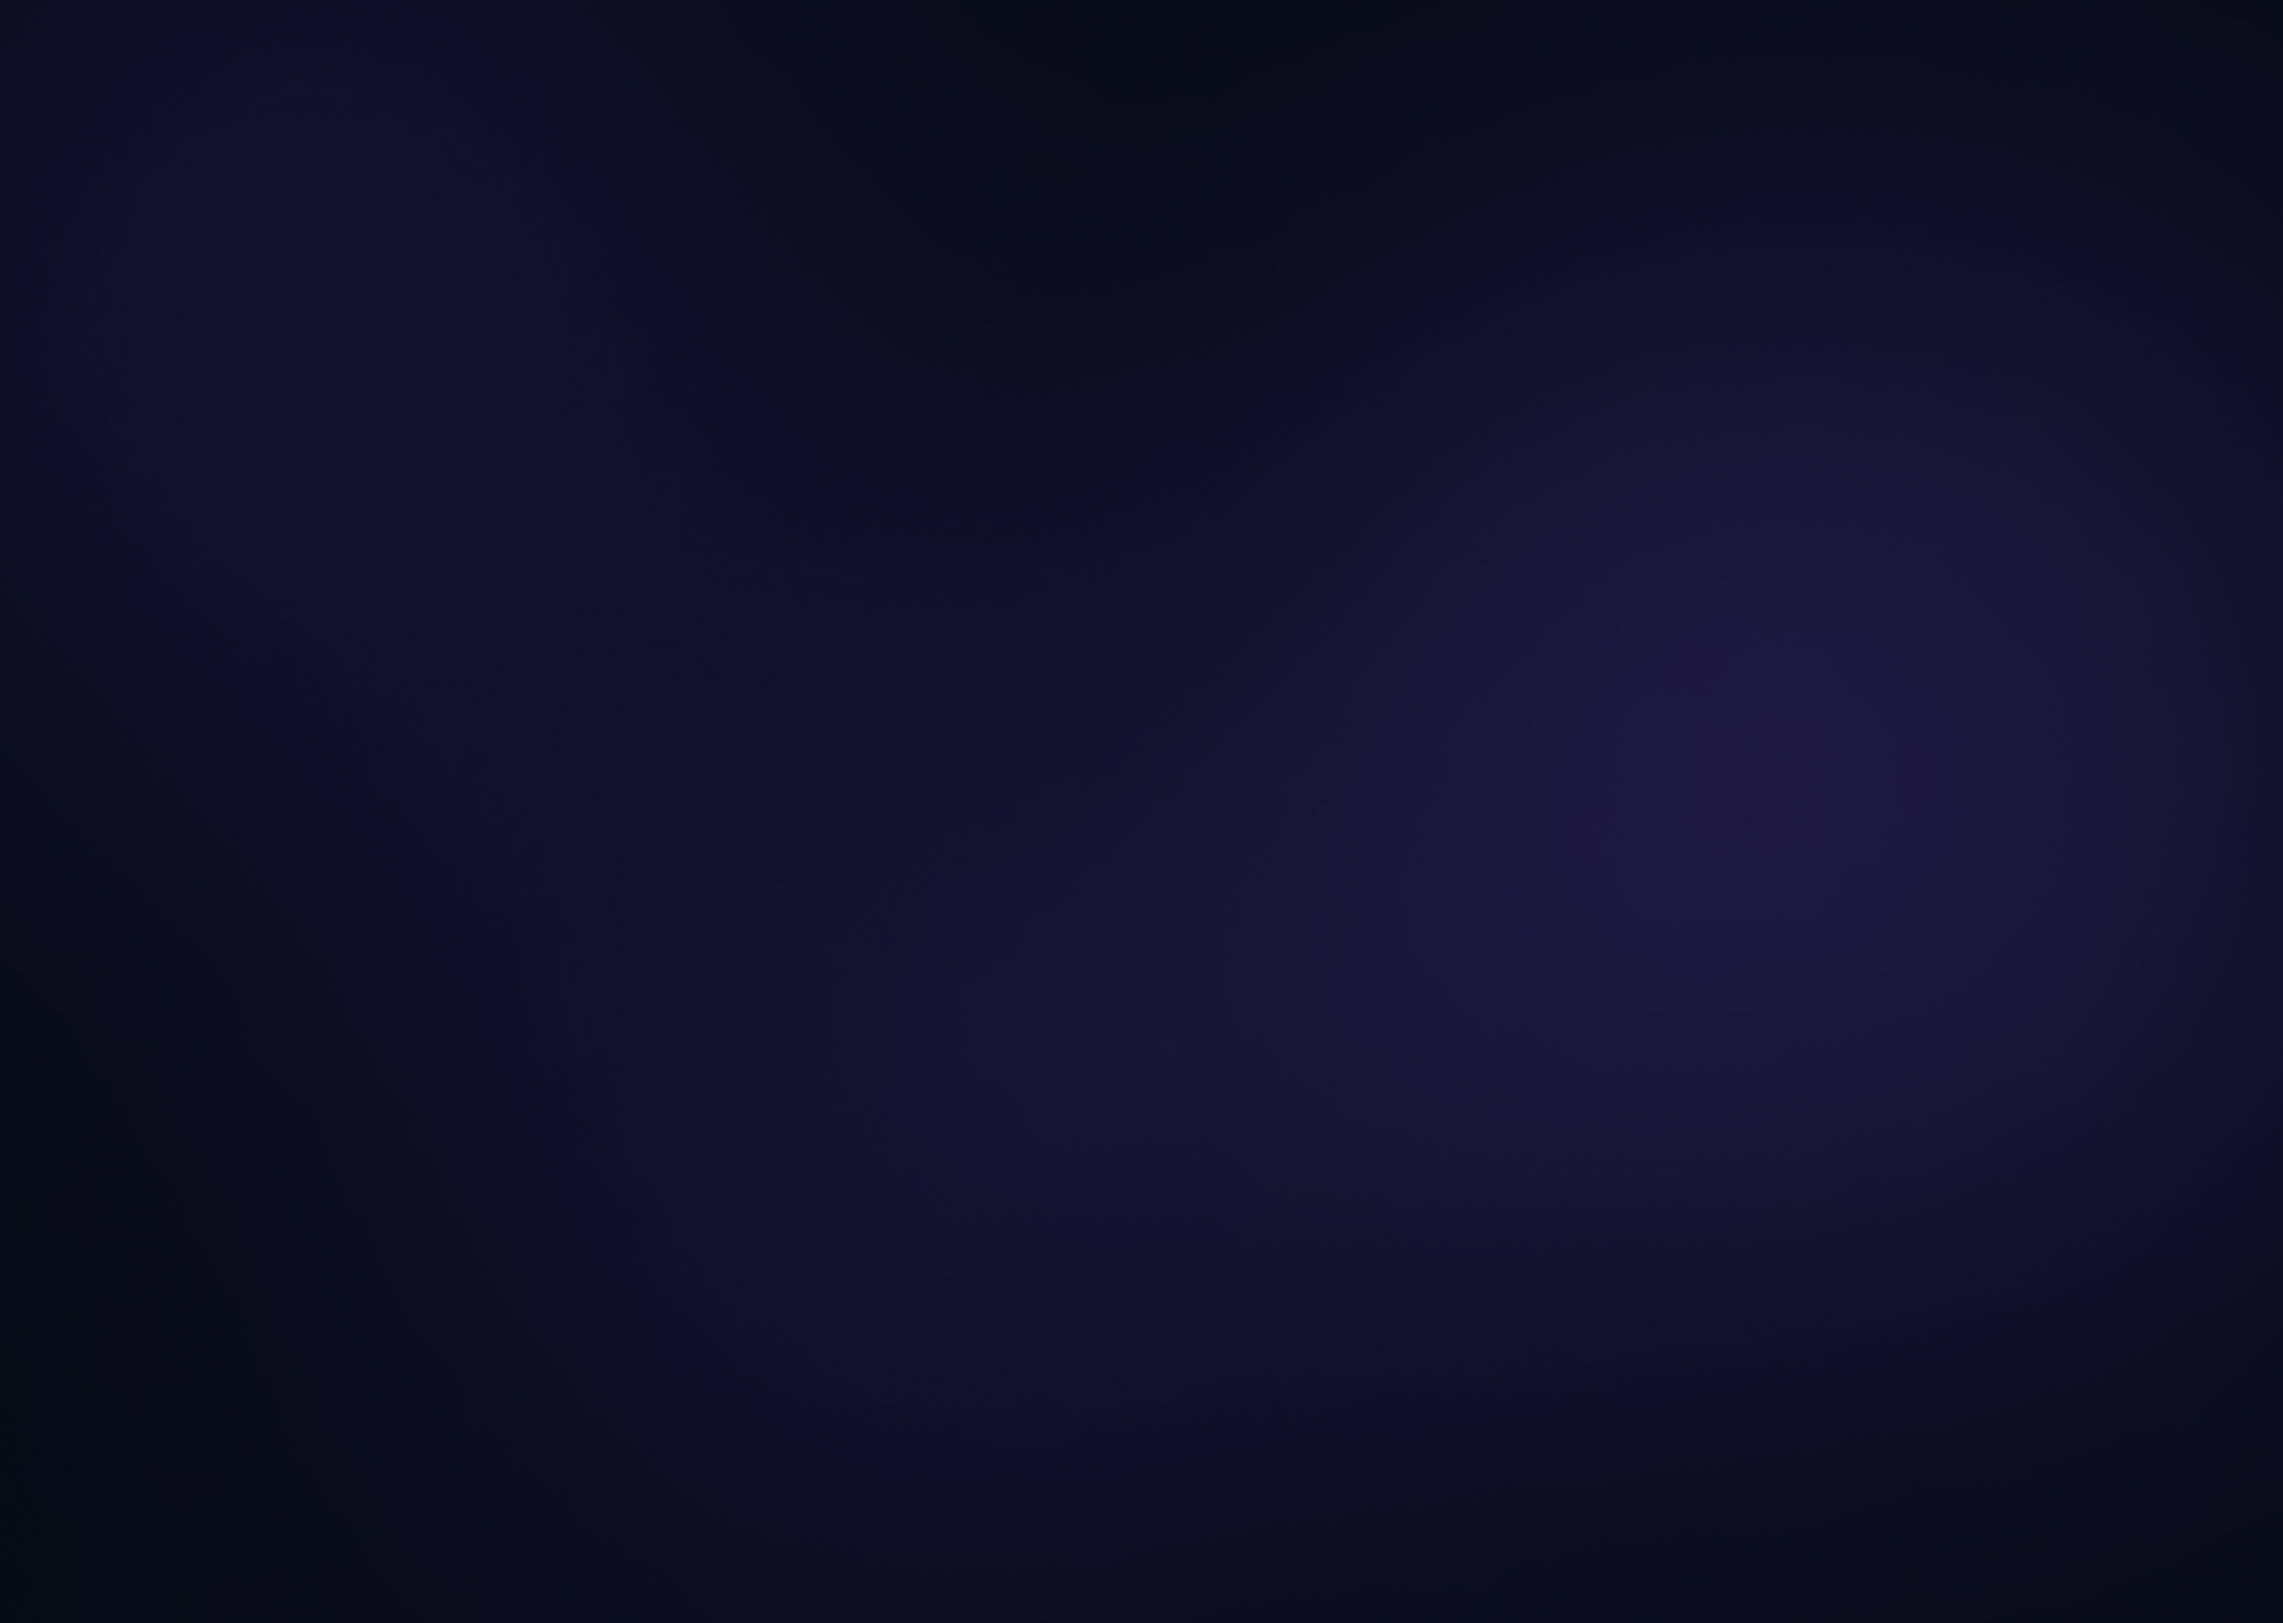
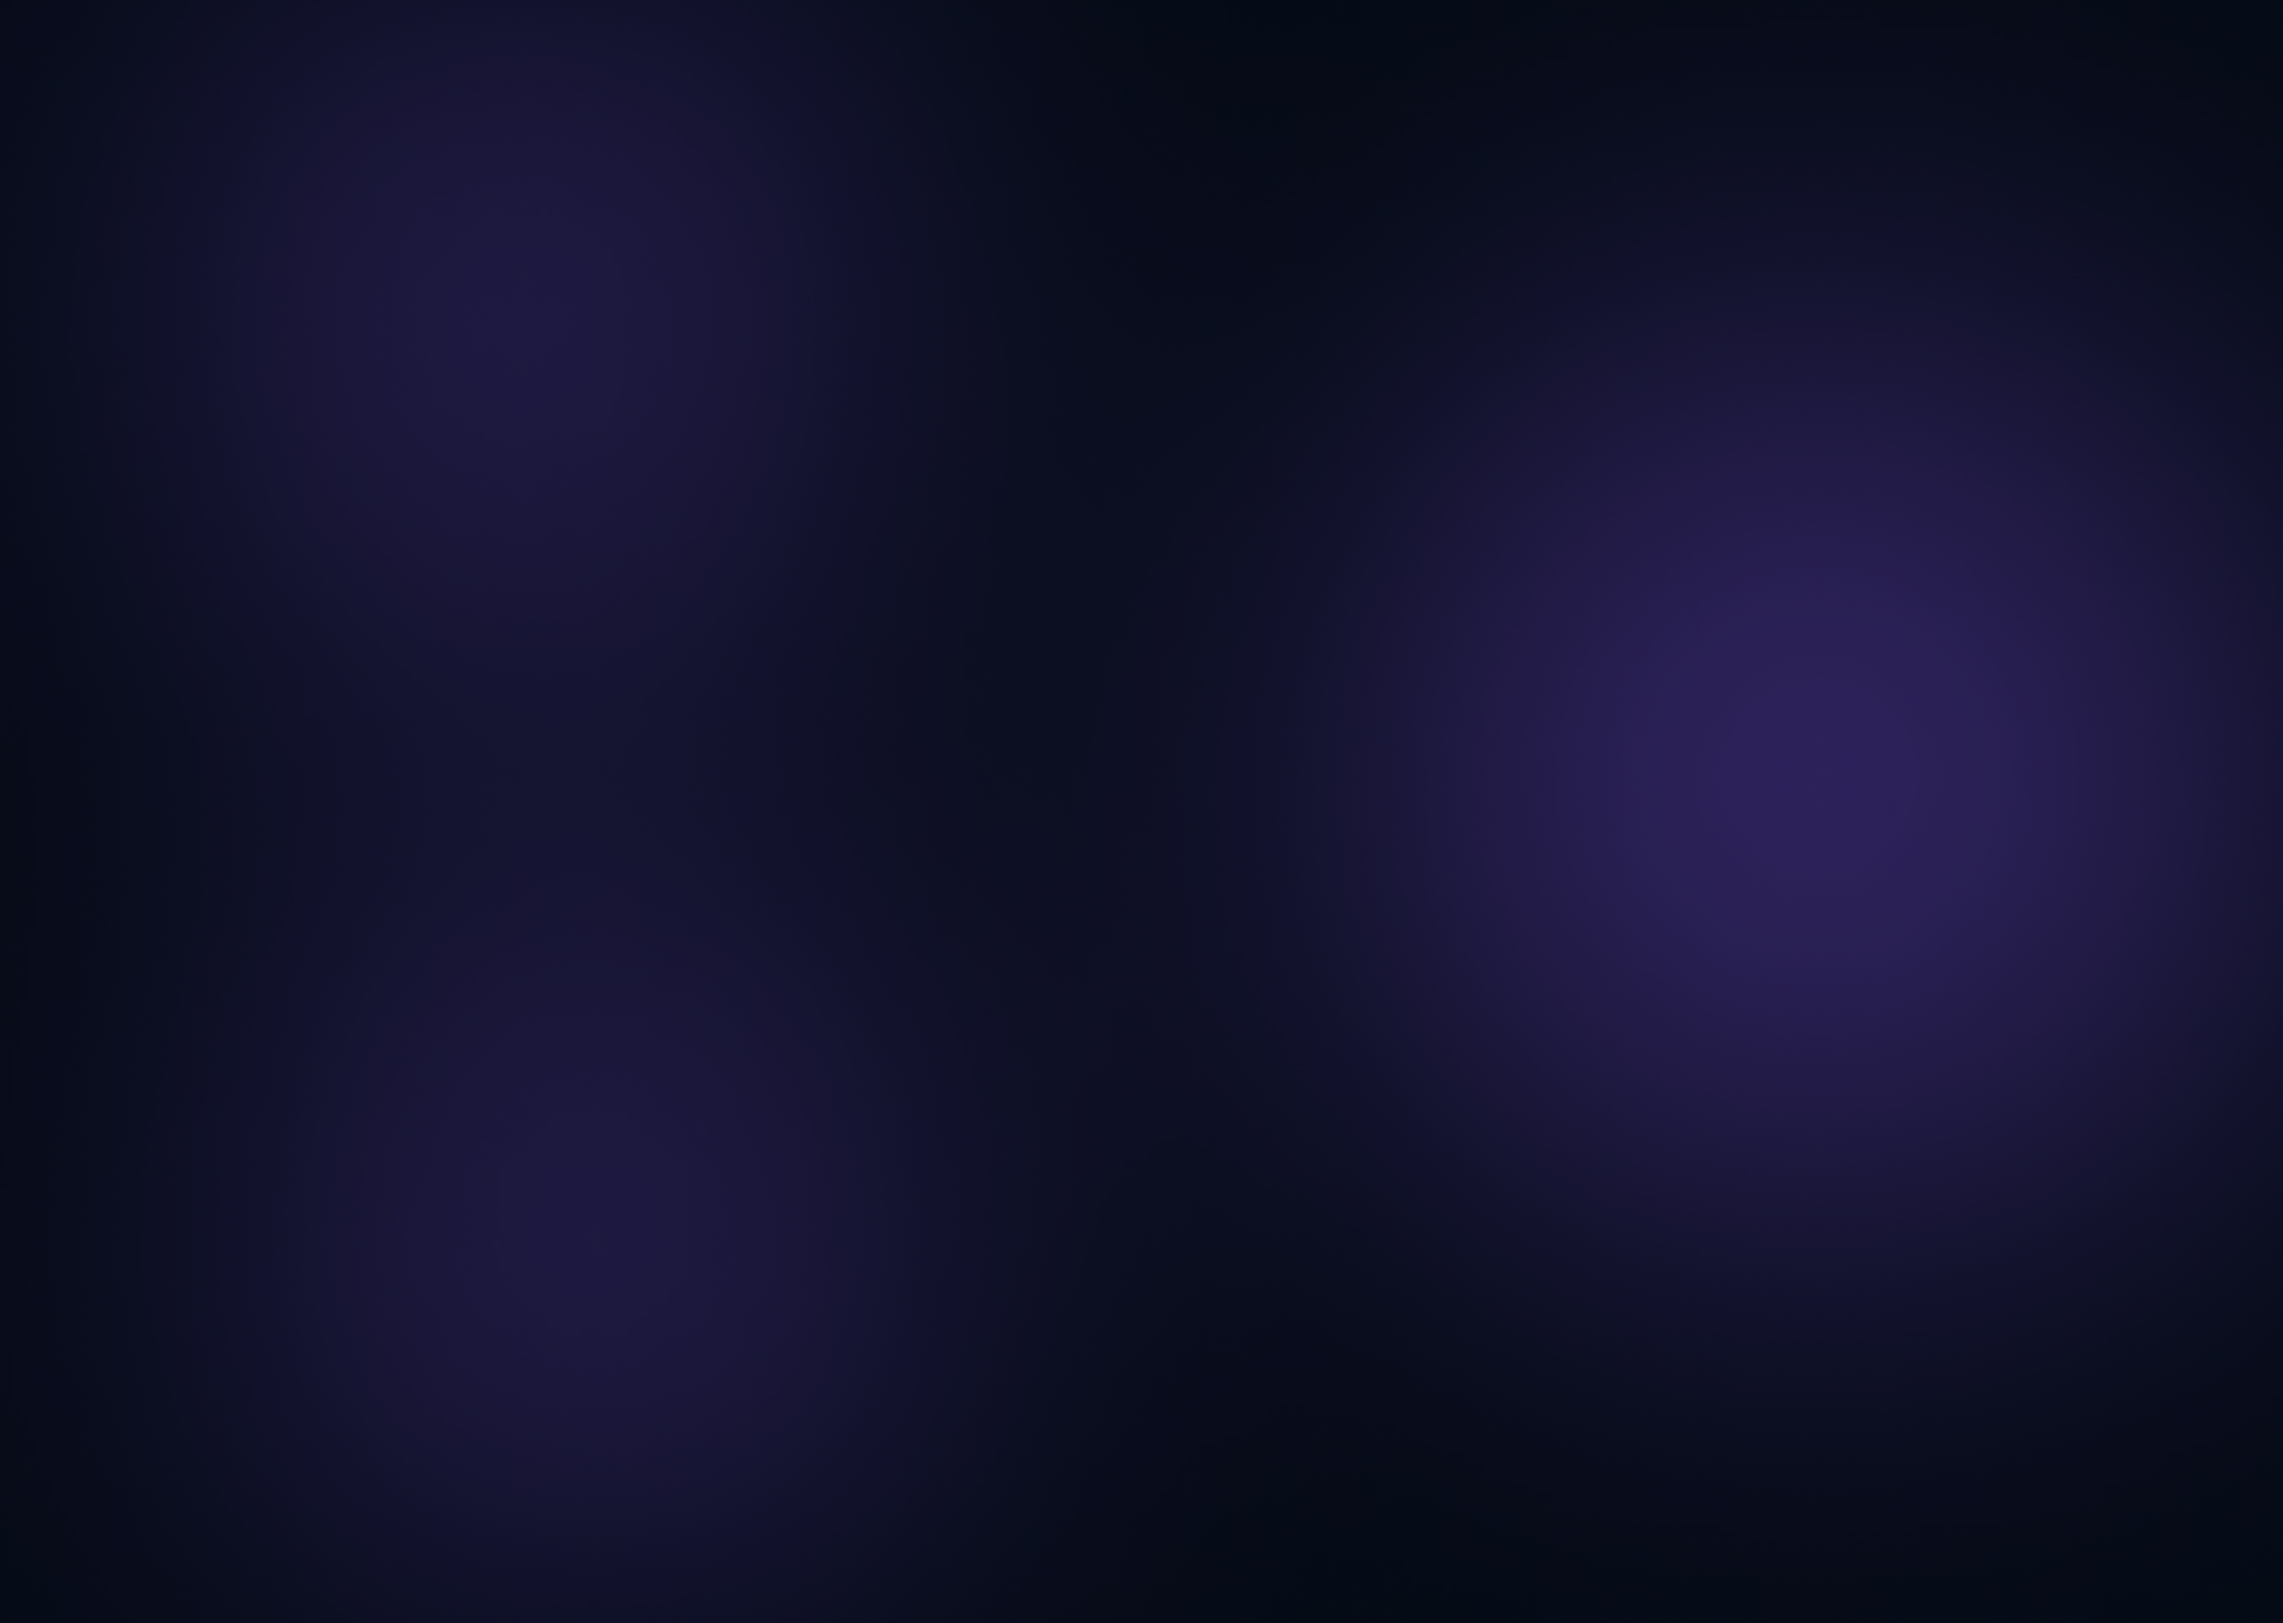
no sivigis

Changed region(s): [[0.1552, 0.6861, 0.2794, 0.8732], [0.745, 0.4054, 0.8381, 0.5613]]

diff --git a/Website/index.html b/Website/index.html
@@ -1,7 +1,7 @@
 <head>
     <link rel="stylesheet" href="./style.css">
     <script type="text/javascript" src="./main.js"></script>
-    <link rel="icon" type="image/x-icon" href="./favicon.svg">
+    <link rel="icon" type="image/x-icon" href="./favicon.ico">
     <title>hulio | Web3 Reimagined</title>
 </head>
 <main>
@@ -72,7 +72,7 @@
             </div>
             <div id="aesthetic">
                 <div id="aesthetic-content">
-                    <img id="glass" src="./glass.png">
+               <img id="glass" src="./glass.png">
                     <br>
                     <div id="aesthetic-writing">
                         <h1 id="aesthetic-title">Get Free Crypto</h1>

diff --git a/Website/style.css b/Website/style.css
@@ -70,9 +70,9 @@
 
 body {
     width: 100%;
-    background-image: url("background.svg");
+    background-image: url("background.jpg");
     background-repeat: no-repeat;
-    background-size: auto;
+    background-size: stretch;
 }
 
 #middle-content {
@@ -88,9 +88,9 @@ body {
     grid-column: 3 / 4;
     grid-row: 3 / 8;
     background-color: #212121;
-    background-image: url("background.svg");
+    background-image: url("background.jpg");
     background-repeat: no-repeat;
-    background-size: auto;
+    background-size: stretch;
     display: flex;
     align-items: center;
     justify-content: center;
